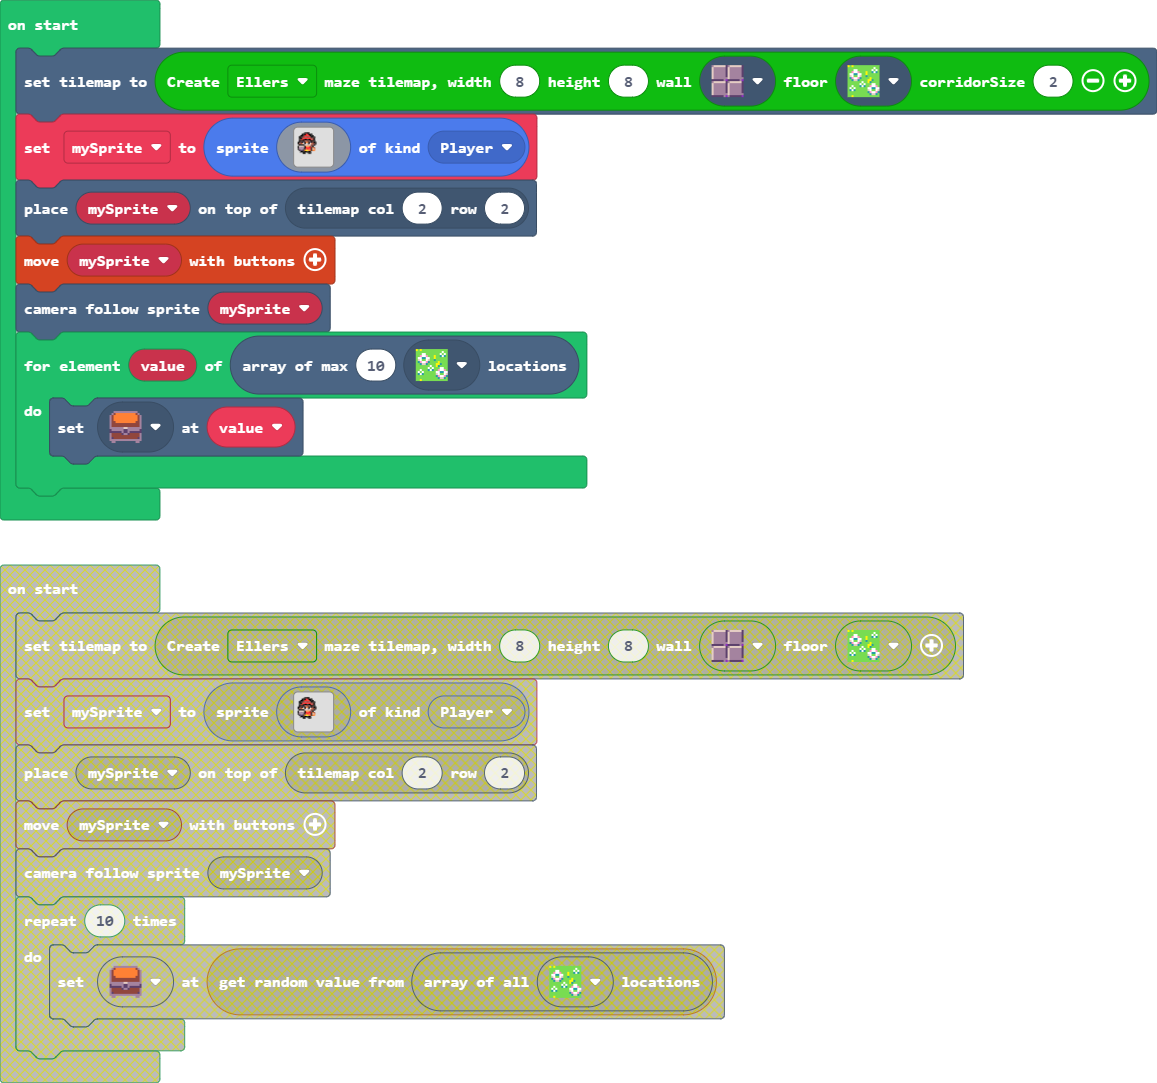
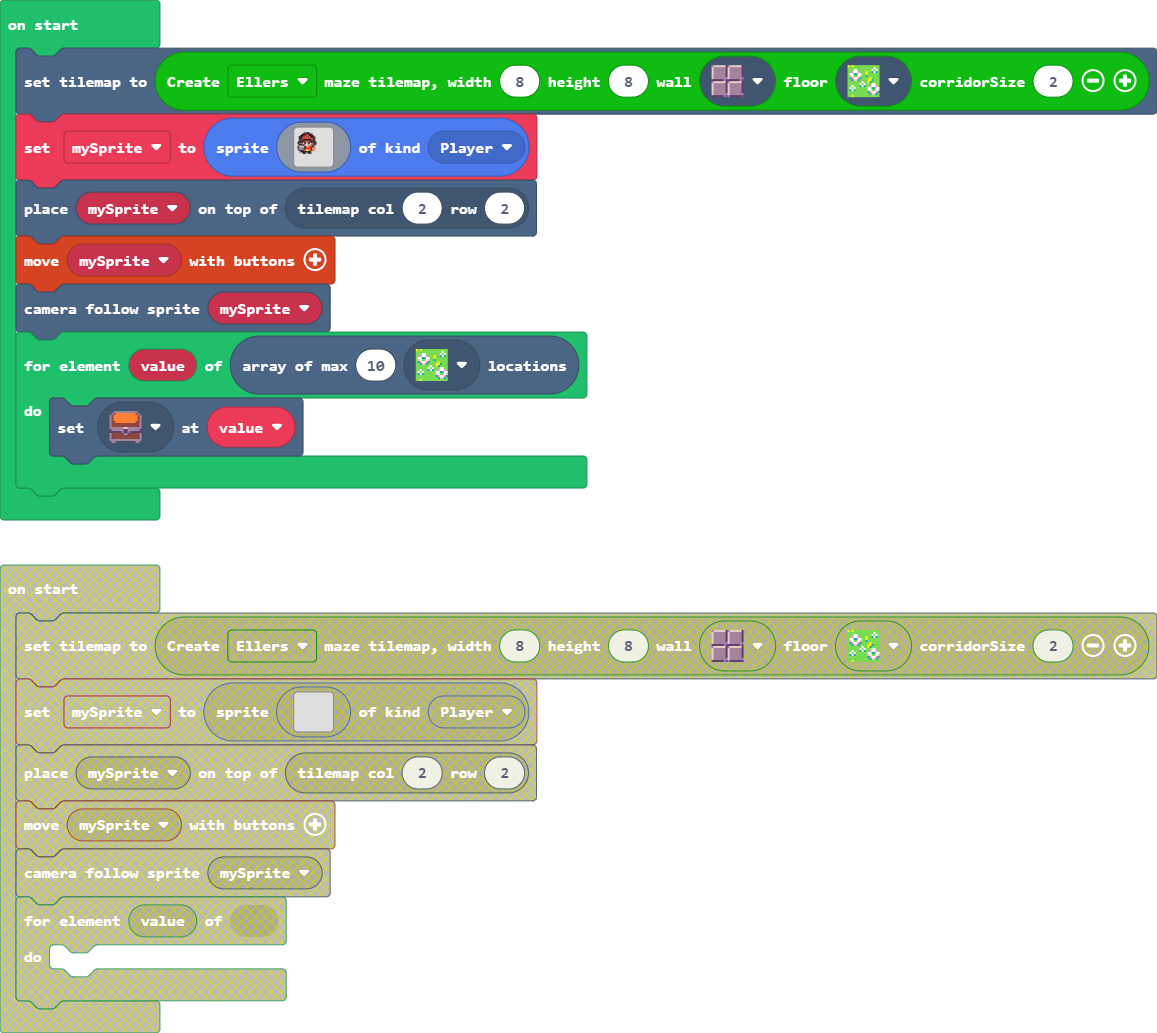
Experimenting with blackNamespace and blockId

diff --git a/tilemapExt.ts b/tilemapExt.ts
@@ -1,16 +1,18 @@
-// Add your code here
-/**
- * Get a random tile of the given type
- * @param tile the type of tile to get a random selection of
- */
 //% blockNamespace=scene
-//% group=Locations
-//% block="array of max $maxCount $tile locations"
-//% tile.shadow=tileset_tile_picker
-function getRandomTilesByType(tile: Image, maxCount: number): tiles.Location[] {
-    const scene = game.currentScene();
-    if (!tile || !scene.tileMap)
-        return undefined;
-    const index = scene.tileMap.getImageType(tile);
-    return scene.tileMap.sampleTilesByType(index, maxCount);
+namespace tilesExt {
+    /**
+     * Get a random tile of the given type
+     * @param tile the type of tile to get a random selection of
+     */
+    //% blockId=tilesExt_getRandomTilesByType
+    //% group=Locations
+    //% block="array of max $maxCount $tile locations"
+    //% tile.shadow=tileset_tile_picker
+    export function getRandomTilesByType(tile: Image, maxCount: number): tiles.Location[] {
+        const scene = game.currentScene();
+        if (!tile || !scene.tileMap)
+            return undefined;
+        const index = scene.tileMap.getImageType(tile);
+        return scene.tileMap.sampleTilesByType(index, maxCount);
+    }
 }

diff --git a/maze.ts b/maze.ts
@@ -14,6 +14,7 @@ namespace maze {
      * @param floor tile to use for floors
      * @param corridorSize width of corridors
      */
+    //% blickId=maze_generateTilemap
     //% block="Create $algorithm maze tilemap, width $mazeWidth height $mazeHeight wall $wall floor $floor || corridorSize $corridorSize seed $seed"
     //% wall.shadow=tileset_tile_picker
     //% floor.shadow=tileset_tile_picker

diff --git a/main.ts b/main.ts
@@ -28,6 +28,6 @@ let mySprite = sprites.create(img`
 tiles.placeOnTile(mySprite, tiles.getTileLocation(2, 2))
 controller.moveSprite(mySprite)
 scene.cameraFollowSprite(mySprite)
-for (let value of getRandomTilesByType(sprites.castle.tileGrass2, 10)) {
+for (let value of tilesExt.getRandomTilesByType(sprites.castle.tileGrass2, 10)) {
     tiles.setTileAt(value, sprites.dungeon.chestClosed)
 }
